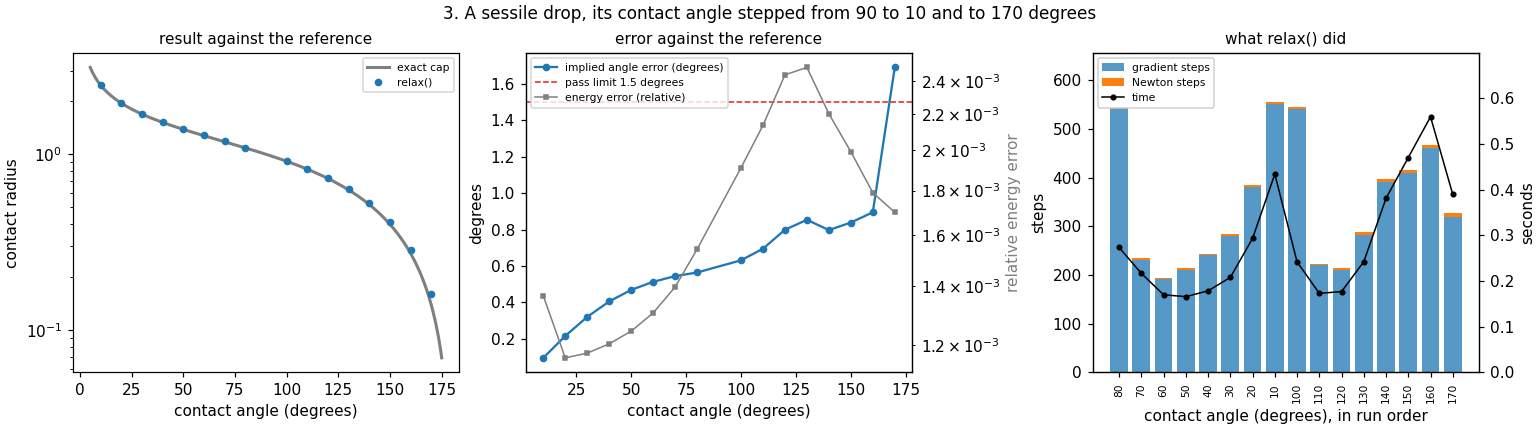
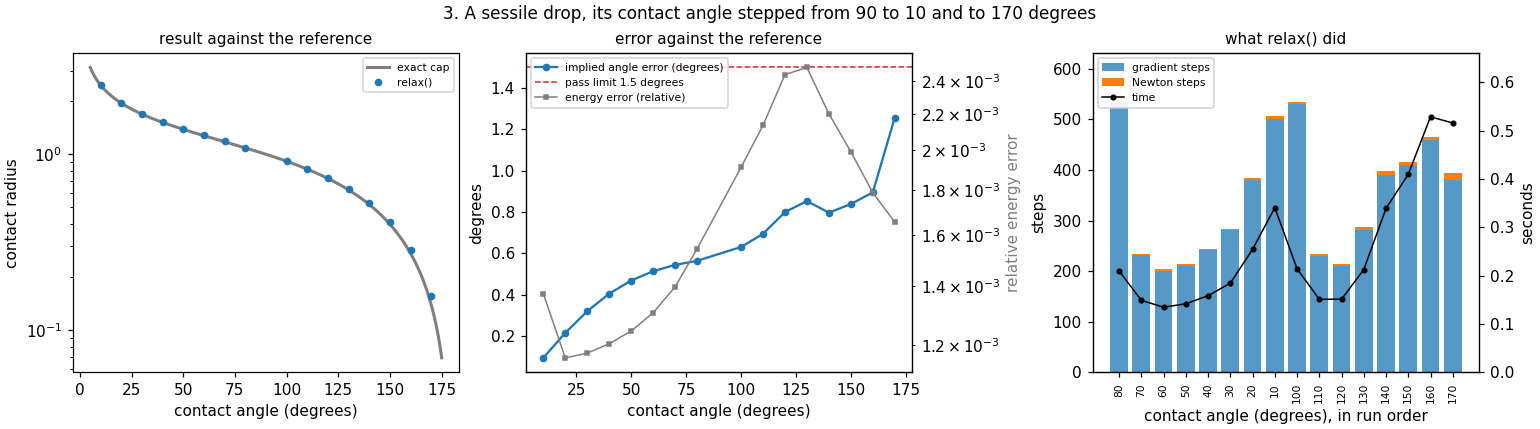
relax(): long contact-line spokes split repeatedly (up to three times per call), so stress case 3 passes at 170 degrees; a warning when the surface was refined four or more times since it last converged
Claude-Session: https://claude.ai/code/session_01Kwrdj7nwy1jTuiKZ3FpBEY

diff --git a/python/pysurfaceevolver/_relax.py b/python/pysurfaceevolver/_relax.py
@@ -34,6 +34,7 @@ _NEWTON_MAX_RISE = 0.1         # a Newton step raising the energy more (relative
 _NEWTON_RESIDUAL_RISE = 1.1    # ... and one raising both the energy and the residual by this factor
 _NEWTON_PROGRESS = 0.9         # Newton goes on while each step cuts the residual below this factor
 _TARGET_HALFWAY = 0.5          # ... or brings an unmet target this much closer
+_UNRELAXED_REFINES = 4         # relax() warns from this many refinements since it last converged
 _NO_FREEDOM = (3004, 3005)      # Evolver: fewer degrees of freedom than constraints
 _TRIAL_KEEP = 0.01             # ... and a Newton trial there is kept below this fraction of the residual
 _SLOW_ROUND = 0.95             # a round leaving the residual above this fraction of the last's is slow
@@ -51,6 +52,7 @@ _INERTIA_NEAR = 1e-2
 _ENERGY_TOL = 1e-5             # relax(): gradient rounds settle at this relative change...
 _WINDOW = 3                    # ... over this many rounds
 _GRADIENT_ONLY_TOL = 1e-9      # ... or this one when no Newton follows
+_CONTACT_SPLITS = 3            # relax(): splits of long contact-line spokes, at most
 _CONTACT_PASSES = 2           # relax(): relaxes after splitting long contact-line spokes, at most
 _ROUND_BLOWUP = 2             # a gradient round more than doubling the residual or a target gap is undone
 _TURN = 15.0                  # adapt(): default turning angle (degrees) across an edge
@@ -244,6 +246,15 @@ class _Relaxing(_Analysis):
         if tidy < 0 or levels < 0 or newton < 0:
             raise ValueError("tidy, levels and newton must be non-negative")
         self._inertia = None                # only this call's Newton steps count
+        refined = surface.unrelaxed_refines
+        if refined >= _UNRELAXED_REFINES:
+            warnings.warn(
+                f"relax(): the surface was refined {refined} times since it last converged; "
+                "relaxing it this fine is slow and may not converge (every refinement "
+                "multiplies the gradient steps a shape change takes). relax(levels=n) from "
+                "the coarser surface relaxes after each refinement instead (on cube.fe five "
+                "refinements: 0.4 s converged, against 10 s unconverged).",
+                EvolverWarning, stacklevel=3)
         with _threads_for_call(threads), self._conj_grad(False), \
                 self._mesh_kept(keep_mesh):
             run = _Run(self, tol=tol, max_iter=max_iter, tidy=tidy, newton=newton, seek=seek,
@@ -318,6 +329,9 @@ class _Relaxing(_Analysis):
             except EvolverError:
                 health = None
             settled = trace.settled and not residual < tol
+        # (refinements this call made were relaxed after; a converged surface
+        # starts the count over)
+        surface.unrelaxed_refines = 0 if residual < tol else refined
         return IterationResult(np.array(trace.energy), np.array(trace.area),
                                np.array(trace.scale), "".join(trace.output),
                                bool(residual < tol or (crystalline and settled)), steps,
@@ -937,19 +951,25 @@ class _Run:
         ends up smaller than the facets next to it. Returns the Newton steps
         and the residual."""
         ev = self.ev
-        mark = _long_spokes(ev.mesh(), _SPOKE_RATIO)
-        if not mark.any():
-            return 0, residual
-        before = ev.save()
-        ev._split_marked(mark)
-        steps = 0
-        for _ in range(_CONTACT_PASSES):
-            more, second = self.level(lev)
-            steps += more
-            if second < self.tol:
-                return steps, second
-        ev.restore(before)
-        return 0, residual
+        total = 0
+        for _ in range(_CONTACT_SPLITS):    # (until no spoke is long, each kept if it converges)
+            mark = _long_spokes(ev.mesh(), _SPOKE_RATIO)
+            if not mark.any():
+                break
+            before = ev.save()
+            ev._split_marked(mark)
+            steps, converged = 0, False
+            for _ in range(_CONTACT_PASSES):
+                more, second = self.level(lev)
+                steps += more
+                if second < self.tol:
+                    converged = True
+                    break
+            if not converged:
+                ev.restore(before)
+                break
+            total, residual = total + steps, second
+        return total, residual
 
     def collapse(self, levels: int) -> "tuple[int, float, int, int] | None":
         """relax()'s last resort for an unconverged surface: gradient steps

diff --git a/tests/test_review_fixes.py b/tests/test_review_fixes.py
@@ -236,3 +236,20 @@ def test_popping_a_fixed_edge_between_free_facets_ends(run_python):
         print(ev.command("o").split()[-1], ev.check())
     """, timeout=60)
     assert out.returncode == 0 and out.stdout.strip().endswith("0 []")
+
+
+def test_relax_warns_about_a_surface_refined_before_it_was_relaxed(load):
+    # refined five times unrelaxed, a cube takes 25 times longer and doesn't
+    # converge; relax(levels=n) relaxes after each refinement
+    ev = load("cube.fe")
+    ev.refine(4)
+    with pytest.warns(pyse.EvolverWarning, match="refined 4 times since it last converged"):
+        ev.relax(max_iter=20, stability=False)
+    ev = load("cube.fe")
+    ev.refine(2)
+    ev.relax(stability=False)
+    ev.refine(2)                                 # counted from the last convergence
+    with warnings.catch_warnings():
+        warnings.simplefilter("error", pyse.EvolverWarning)
+        ev.relax(stability=False)
+        load("cube.fe").relax(levels=4, stability=False)

diff --git a/python/pysurfaceevolver/_engine.py b/python/pysurfaceevolver/_engine.py
@@ -92,6 +92,7 @@ class _SurfaceMemory:
         self.collapse_failures = 0          # relax(): failed last-resort attempts in a row
         self.collapse_skip = 0              # relax(): calls still to skip before the next attempt
         self.walls: Dict[object, object] = {}   # load_arrays(): constraints with a shape
+        self.unrelaxed_refines = 0          # refine() calls since relax() last converged
 
 
 surface = _SurfaceMemory()
@@ -333,6 +334,7 @@ class _Engine:
             raise ValueError("times must be non-negative")
         for _ in range(times):
             self.command("r")
+            surface.unrelaxed_refines += 1
 
     def equiangulate(self) -> None:
         """Flip edges to improve triangle shapes (Evolver's ``u``)."""

diff --git a/bench/stress/case03_sessile.py b/bench/stress/case03_sessile.py
@@ -4,7 +4,8 @@ and up to 170 degrees at fixed volume. Reference: the exact spherical cap.
 Checked: the energy (to 1%), the contact angle implied by the contact radius
 at this volume (to 1.5 degrees), and that every relax() converged. (The
 contact radius itself is no fair measure at extreme angles: near 170 degrees
-a 1-degree error moves it by 12%.)"""
+a 1-degree error moves it by 12%.) Failed at 170 degrees (1.7 off) until
+relax() split long contact-line spokes repeatedly; now 1.3 off."""
 
 import numpy as np
 import pysurfaceevolver as pyse

diff --git a/docs/stress_cases.md b/docs/stress_cases.md
@@ -161,7 +161,7 @@ A drop (no gravity) whose contact angle is stepped from 90 to 170 degrees at fix
 volume: the drop rolls up into nearly a sphere on a small contact disk. Reference: the
 exact spherical cap. The contact circle shrinks below the size of the facets next to
 it; after converging, `relax()` splits the long edges leaving the contact line and
-relaxes again (the facet count grows near the rim).
+relaxes again, while some are long (the facet count grows near the rim).
 
 ```python
 import numpy as np
@@ -192,18 +192,20 @@ theta 130.0: energy error 0.25%, contact radius 0.6351 (exact 0.6261), 608 facet
 theta 140.0: energy error 0.22%, contact radius 0.5258 (exact 0.5168), 736 facets
 theta 150.0: energy error 0.20%, contact radius 0.4088 (exact 0.3986), 864 facets
 theta 160.0: energy error 0.18%, contact radius 0.2834 (exact 0.2717), 992 facets
-theta 170.0: energy error 0.17%, contact radius 0.1609 (exact 0.1378), 1120 facets
+theta 170.0: energy error 0.17%, contact radius 0.1550 (exact 0.1378), 1376 facets
 ```
 
-Energies within 0.25%. At 170 degrees the contact disk (radius 0.14) is resolved by a
-coarse ring and the radius is 17% off: the implied contact angle is 1.7 degrees off.
-Start from a finer mesh for such angles.
+Energies within 0.25%. At 170 degrees the contact disk (radius 0.14) is small next to
+the facets around it: `relax()` splits the long edges leaving the contact line, up to
+three times per call while some are long, and the implied contact angle is 1.3
+degrees off (the radius 12% off). A finer start does better: one refinement more
+brings it within 0.3 degrees.
 
 ```{figure} _static/stress/case03.png
 :alt: Case 3: result, error and solver steps
 :width: 100%
 
-Left, the contact radius against the exact cap (log scale) and the error of the implied contact angle (limit 1.5 degrees: only 170 fails) and of the energy; the first bar of each sweep includes the first relaxation. Middle, the error against the reference. Right, what relax() did at each step.
+Left, the contact radius against the exact cap (log scale) and the error of the implied contact angle (limit 1.5 degrees) and of the energy; the first bar of each sweep includes the first relaxation. Middle, the error against the reference. Right, what relax() did at each step.
 ```
 
 ```{figure} _static/stress/case03_shapes.png
@@ -305,9 +307,9 @@ for step in recipes.continuation(ev, "theta", np.arange(20.0, 81, 10)):
 ```
 
 ```text
-theta   20: energy 5.8216 (barrel 5.8114), stable True
+theta   20: energy 5.8215 (barrel 5.8114), stable True
 theta   30: energy 6.0292 (barrel 6.0202), stable True
-theta   40: energy 6.2922 (barrel 6.2842), stable True
+theta   40: energy 6.2921 (barrel 6.2842), stable True
 theta   50: energy 6.5938 (barrel 6.5870), stable True
 theta   60: energy 6.9187 (barrel 6.9130), stable True
 theta   70: energy 7.2530 (barrel 7.2483), stable False

diff --git a/docs/relaxing.md b/docs/relaxing.md
@@ -143,19 +143,15 @@ first damaged one of the others. The one who knows the geometry picks `h`.
 
 ## Where the defaults stop working
 
-Of the fourteen stress cases, twelve pass with defaults alone: a liquid column past
+Of the fourteen stress cases, thirteen pass with defaults alone: a liquid column past
 Rayleigh-Plateau (the instability shows at 1.8% past its onset), a catenoid up to its
-fold, a liquid bridge with the gap closing to 1e-3, a barrel drop on a fibre (its
+fold, a sessile drop from 10 to 170 degrees, a liquid bridge with the gap closing to 1e-3, a barrel drop on a fibre (its
 roll-up reported as an instability), a cube inflated a hundredfold, a gravity puddle,
 a drop shrinking to 1e-4 of its volume, Schwarz's P and D surfaces in quotient
 spaces (to 1e-6 and 2e-5 when extrapolated), a drop on a sphere from 20 to 150
 degrees, a double bubble, a solder joint's force (to 5e-5 against an axisymmetric
-model, extrapolated) and a catenoid between round wires stopped at its fold. Two
-don't:
-
-* **A drop at 170 degrees** on a coarse starting mesh (480 facets): the implied contact
-  angle is 1.7 degrees off (the case allows 1.5; up to 160 degrees it passes). More
-  resolution helps.
+model, extrapolated) and a catenoid between round wires stopped at its fold. One
+doesn't:
 * **The drainage band** ({doc}`slit_drainage`) on plain defaults: band pressures
   up to several percent off (median 0.3%). With `ev.remesh(target=h)` each step, as in the notebook, they
   agree with a finer reference to 0.02% (median). Without it the mesh breaks down at
@@ -165,6 +161,12 @@ don't:
   the pressure is within a few percent.
 
 Other things to know:
+
+* **Relax before you refine.** Every refinement multiplies the gradient steps a shape
+  change takes: `cube.fe` refined five times and then relaxed takes 10 s and doesn't
+  converge, while `relax(levels=5)` (a relax after each refinement) converges in 0.4 s
+  to the same energy. `relax()` warns when the surface was refined four or more times
+  since it last converged.
 
 * **Saddles.** `relax()` converges to saddles as readily as to minima. Check
   `r.stable`, or watch for `UnstableEquilibriumWarning`.

diff --git a/CHANGELOG.md b/CHANGELOG.md
@@ -34,6 +34,15 @@
   conjugate-gradient fallback (it broke `max_iter`), and the trial without the
   half-budget condition (fewer tidying rounds cost accuracy: the gravity puddle
   went from 0.22% to 0.54%).
+- The split of long edges leaving a contact line (after convergence) repeats, up to
+  three times per call, while some are long: a contact circle that shrinks a lot in
+  one step (a drop from 160 to 170 degrees) needed more than one. Stress case 3 now
+  passes at 170 degrees (the implied contact angle 1.3 degrees off, was 1.7; the
+  limit is 1.5), so 13 of the 14 cases pass on defaults; only the drainage band
+  (case 8) doesn't.
+- `relax()` warns when the surface was refined four or more times since it last
+  converged: relaxing that fine is slow and may not converge (`cube.fe` refined five
+  times: 10 s unconverged, against 0.4 s converged with `relax(levels=5)`).
 - Stress case 8's unconverged states traced: in a typical band state 95% of the
   residual (squared) sits in ten vertices at the corner where a bead's contact line
   meets the wall, with facets under a degree and vertices pushed into the bead. A

diff --git a/docs/PLAN.md b/docs/PLAN.md
@@ -86,7 +86,7 @@ Open, for the user to pick:
 * **Candidates:** `newton()` returning a result object; Evolver's finite-difference
   parameter Hessian limits relax to ~1e-7 with optimizing parameters (bga-5).
 
-* **Known limits:** stress case 3 at 170 degrees; case 8 needs explicit remeshing for
+* **Known limits:** case 8 needs explicit remeshing (a mesh breakdown at the bead-wall corner) for
   full accuracy; mylarcube ends 0.1% above its recipe; the conjugate-gradient retry
   rescues ~1 step in 130 in case 8 but keeps its median error down; topology tests
   are path-sensitive at several threads (run with threads=1).
